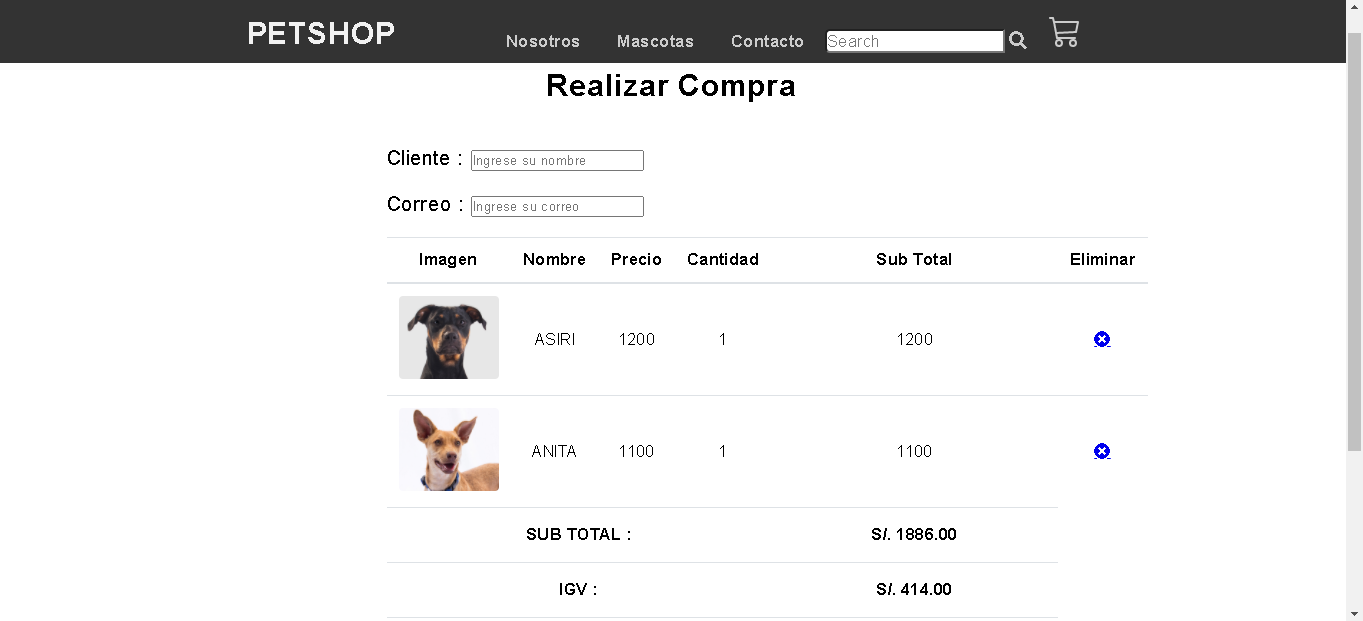
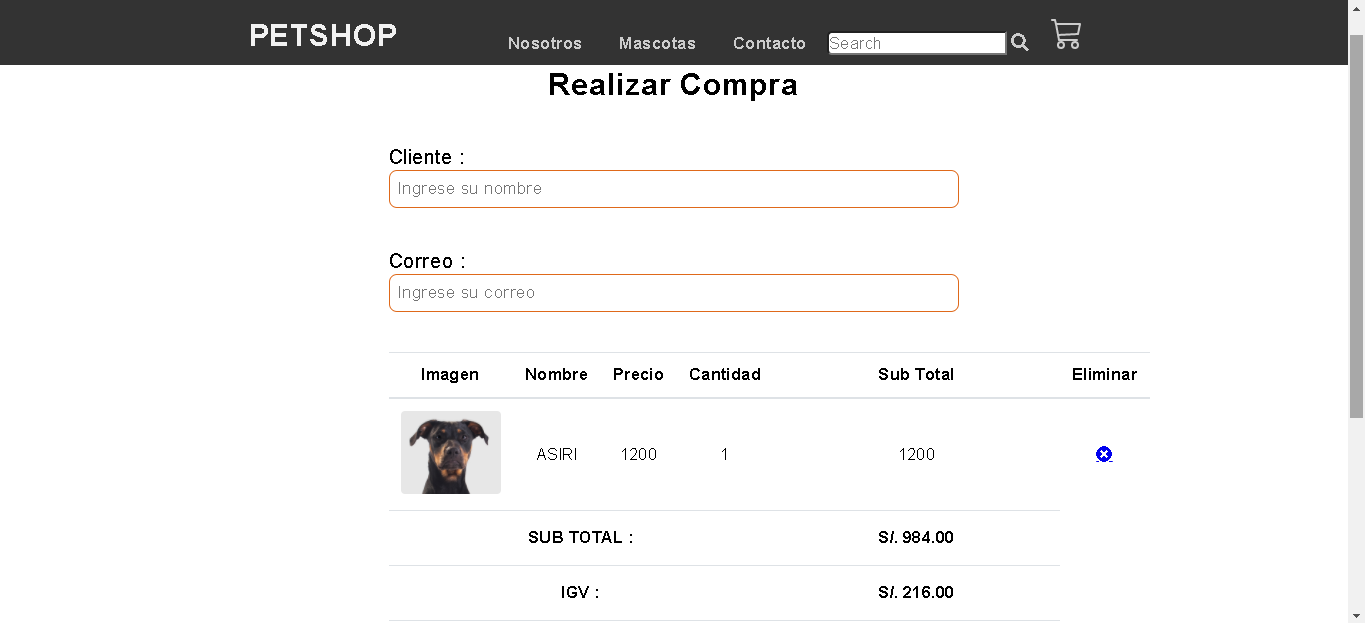
27/11/2020

diff --git a/assets/css/style.css b/assets/css/style.css
@@ -429,7 +429,16 @@ main{
 }
 .container-carrito form .titulo{
     font-size: 20px;
-    font-weight: 200;
+    font-weight: 200;    
+}
+.container-carrito form .titulo input{
+    width: 100%;
+    margin-bottom: 20px;
+    padding: 7px;
+    box-sizing: border-box;
+    font-size: 17px;
+    border-radius: 8px;
+    border:1px solid  #DF691A;
 }
 #total{
     border: 0; 
@@ -492,6 +501,7 @@ main{
 }
 .copyright-text p a{
   color: #ff5e14;
+  text-decoration: none;
 }
 .footer-menu li {
   display: inline-block;
@@ -503,6 +513,7 @@ main{
 .footer-menu li a {
   font-size: 14px;
   color: #878787;
+  text-decoration: none;
 }
 .row-footer {
     display: -ms-flexbox;
